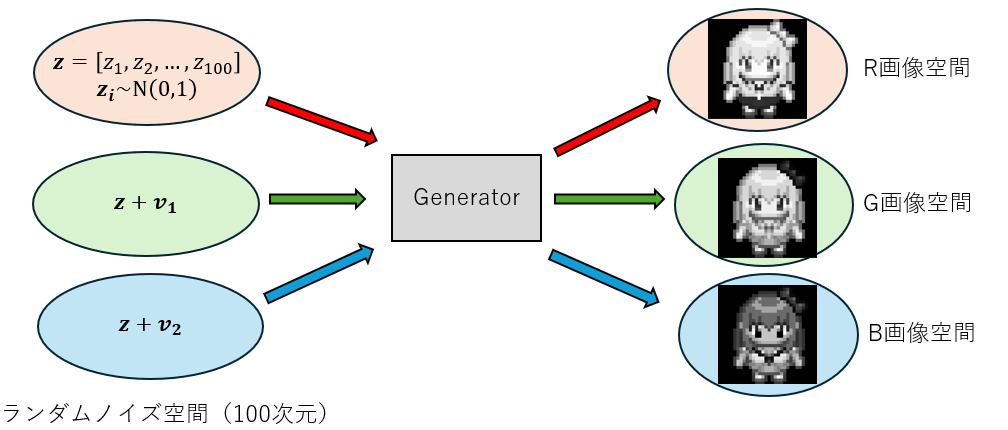
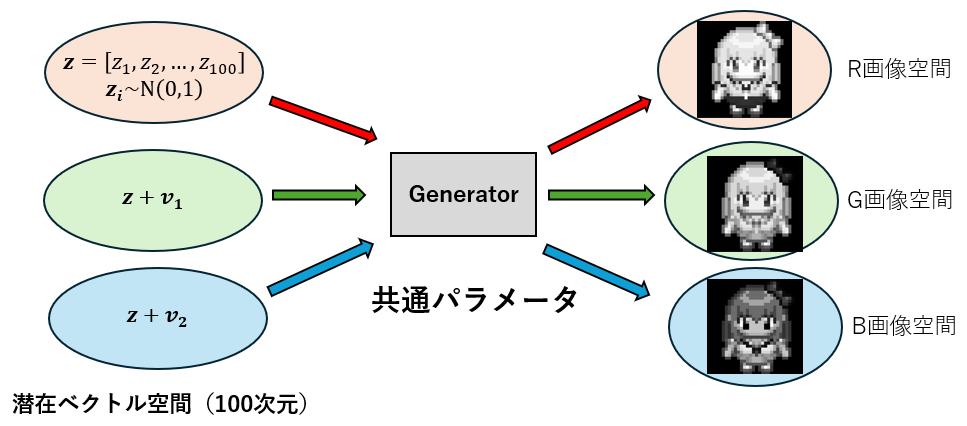
0127 mitani 3,4,CNN,emulator,bibtex,main,newfig

diff --git a/CNN.tex b/CNN.tex
@@ -1,76 +1,12 @@
 \newpage
-\section{CNN}
-本章では、GeneratorおよびDiscriminatorのネットワークとして使用したCNN(Convolutional Neural Network)について説明する。基礎となるニューラルネットワーク、誤差逆伝播法については補足資料2に記述した。
 
-\subsection{CNNの概要}
-CNNは画像認識のタスクにおいて優れた性能を示すことから注目される深層学習アルゴリズムである。CNNの概要図を\fref{fg:CNN1}に示す。画像には隣接するピクセル間に関係性があるため、CNNでは、「畳み込み層」「プーリング層」を用いて画像の局所的な特徴量（エッジや色の変化）を抽出する。分類問題では、最後に全結合層を用いることでスコアを算出する。
+\section{エミュレータ設計}
+前章までの学習では、PyTorch などの既存ライブラリを用いており、逆畳み込み演算には \texttt{nn.ConvTranspose2d} を使用していた。そのため、具体的な逆畳み込みの計算は関数で処理されている上、計算はすべて浮動小数点演算により行われている。
+
+本章では、FPGA実装にあたり、逆畳み込み演算の具体的な計算構成を整理するとともに、固定小数点表現の検討を行う。
 
 
-\begin{figure}[htbp]
-	\centering
-	\includegraphics[width=60mm,keepaspectratio]{figure/CNN1.png}
-	\caption{CNNの概要図}
-	\label{fg:CNN1}
-\end{figure}
-
-\subsection*{畳み込み層}
-畳み込み層では、カーネルと呼ばれる小さなフィルタを入力データに対して畳み込むことで、局所的な特徴を抽出する。\fref{fg:CNN2}に示すように、複数種類のカーネルを入力データに適用することで、エッジや模様などの多様な画像特徴を捉えることができる。strideを1とした場合、カーネルは入力上を1マスずつスライドしながら、各位置において要素積の計算を行う。
-
-\begin{figure}[htbp]
-	\centering
-	\includegraphics[width=40mm,keepaspectratio]{figure/CNN2.png}
-	\caption{畳み込み演算}
-	\label{fg:CNN2}
-\end{figure}
-
-\subsection*{プーリング層}
-プーリング層では、畳み込み層によって得られた特徴マップを空間的に縮小する処理を行う。代表的な手法としてマックスプーリングがあり、局所領域内の最大値を出力として採用する。(\fref{fg:CNN3})
-\begin{figure}[htbp]
-	\centering
-	\includegraphics[width=40mm,keepaspectratio]{figure/CNN3.png}
-	\caption{マックスプーリング}
-	\label{fg:CNN3}
-\end{figure}
-
-\subsection{逆畳み込み演算}
-CNNでは、情報を抽出するため畳み込み層を通過するごとに画像サイズは小さくなる。その一方で、逆畳み込み演算を用いることにより、画像を拡大していくことが可能となる。今回、Generatorは100次元の潜在変数ベクトルに対し、逆畳み込みを行うことで32×32の画像を生成する。逆畳み込みは以下の4つのステップに基づく。
-\begin{enumerate}
-    \item strideに応じたデータ拡張
-    \item ゼロパディング
-    \item paddingに応じた、余白の削除
-    \item 畳み込み演算
-\end{enumerate}
-
-\subsubsection*{STEP1：strideに応じたデータ拡張}
-\fref{fg:CNN4}に示すように、strideで指定した行数分だけ入力データのピクセル間に0を追加する。
-\begin{figure}[htbp]
-	\centering
-	\includegraphics[width=40mm,keepaspectratio]{figure/CNN4.png}
-	\caption{strideに応じたデータ拡張}
-	\label{fg:CNN4}
-\end{figure}
-
-\subsubsection*{STEP2：ゼロパディング}
-STEP2では、カーネルのサイズよりも1行少ない数だけ、余白の追加を行う。
-\begin{figure}[htbp]
-	\centering
-	\includegraphics[width=40mm,keepaspectratio]{figure/CNN5.png}
-	\caption{ゼロパディング}
-	\label{fg:CNN5}
-\end{figure}
-
-\subsubsection*{STEP3：paddingに応じた、余白の削除}
-paddingで指定した行数分の余白を削除する。
-\begin{figure}[htbp]
-	\centering
-	\includegraphics[width=40mm,keepaspectratio]{figure/CNN6.png}
-	\caption{paddingに応じた、余白の削除}
-	\label{fg:CNN6}
-\end{figure}
-\subsubsection*{STEP4：畳み込み演算}
-\fref{fg:CNN2}と同様の、通常の畳み込み演算を行う。
-
-\subsection{本システムの逆畳み込み回路}
+\subsection{Generatorの逆畳み込み回路}
 本システムの逆畳み込み回路は、\fref{fg:CNN7}のような構成をしており、4×4のサイズのカーネルに対して、各パラメータに基づいた演算を行うことにより、1×1→4×4→8×8→16×16→32×32とスケールアップしていく。
 
 \begin{figure}[htbp]

diff --git a/main.tex b/main.tex
@@ -24,6 +24,7 @@
 
 \usepackage[table,xcdraw]{xcolor}
 \usepackage{graphicx} % preamble
+\usepackage{url}
 
 
 
@@ -132,7 +133,6 @@
 \input{CNN}
 \input{emulator}
 \input{5th}
-%\input{6th}
 \input{7th}
 }
 
